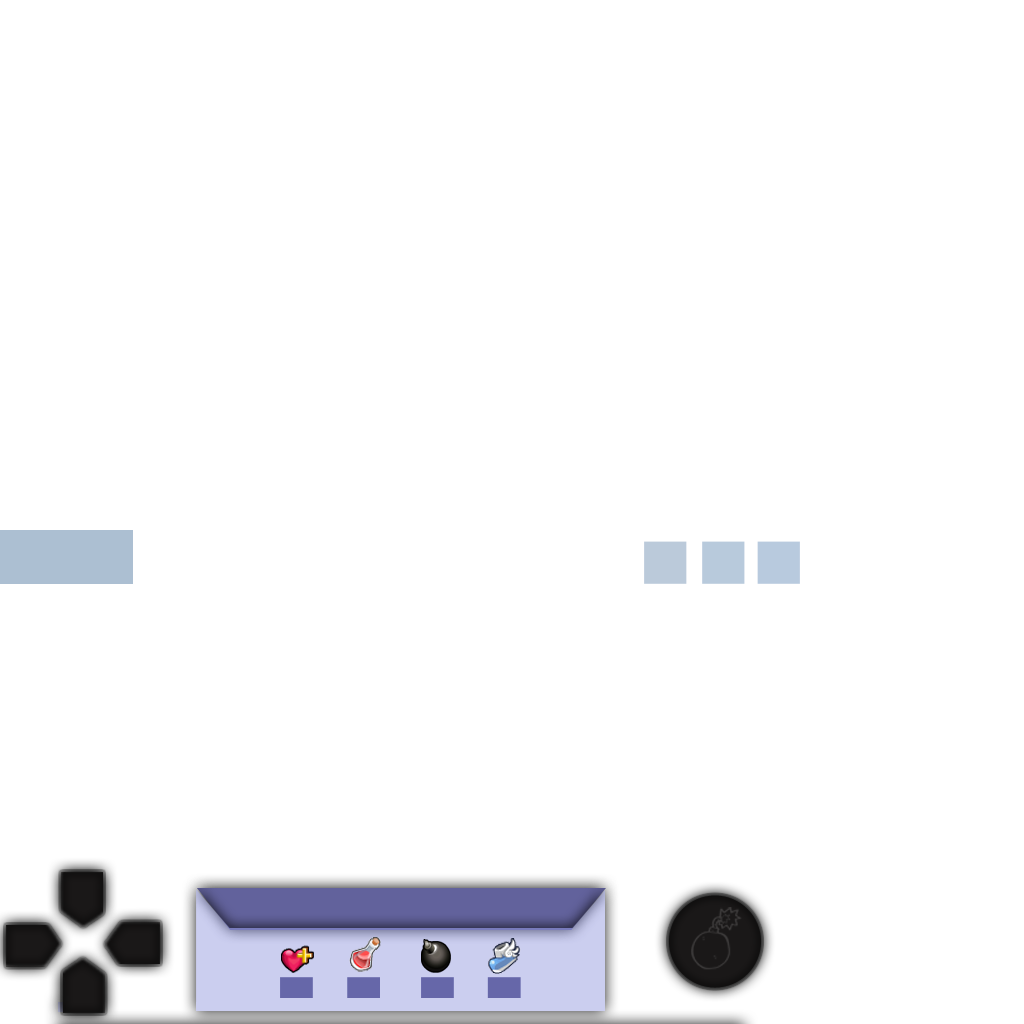
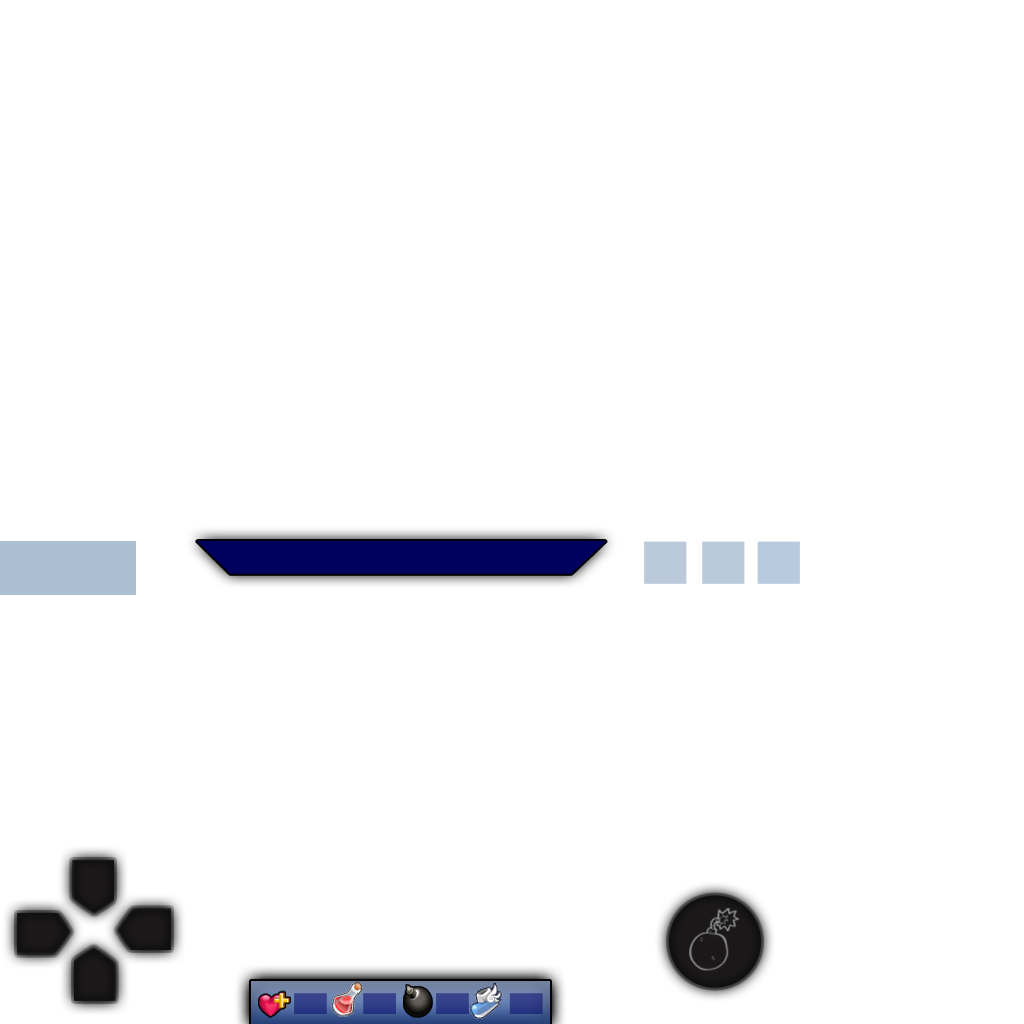
Novo Controller;

diff --git a/bomber-desk/src/com/bomber/common/Assets.java b/bomber-desk/src/com/bomber/common/Assets.java
@@ -40,7 +40,8 @@ public class Assets {
 	public static HashMap<String, MovableObjectAnimation> mMonsters;
 	public static HashMap<String, MovableObjectAnimation> mPlayers;
 	public static HashMap<String, TextureRegion> mPlayersHeads;
-	public static HashMap<String, Animation> mBonus;
+	public static HashMap<String, Animation> mBonusAnimations;
+	public static HashMap<String, TextureRegion> mBonusIcons;
 	public static HashMap<String, Animation> mPlayerEffects;
 	public static HashMap<String, TextureRegion> mNonDestroyableTiles;
 
@@ -69,7 +70,8 @@ public class Assets {
 		mPlayers = new HashMap<String, MovableObjectAnimation>();
 		mPlayerEffects = new HashMap<String, Animation>();
 		mPlayersHeads = new HashMap<String, TextureRegion>();
-		mBonus = new HashMap<String, Animation>();
+		mBonusAnimations = new HashMap<String, Animation>();
+		mBonusIcons = new HashMap<String, TextureRegion>();
 		mExplosions = new HashMap<String, Animation>();
 		mMonsters = new HashMap<String, MovableObjectAnimation>();
 		mNonDestroyableTiles = new HashMap<String, TextureRegion>();
@@ -239,13 +241,20 @@ public class Assets {
 
 	private static void loadBonus()
 	{
-		mBonus.put("bonus_bomb", loadBackloopingAnimation("bonus_bomb_", Bonus.NUMBER_OF_ANIMATION_FRAMES, BONUS_FRAME_DURATION));
-		mBonus.put("bonus_hand", loadBackloopingAnimation("bonus_hand_", Bonus.NUMBER_OF_ANIMATION_FRAMES, BONUS_FRAME_DURATION));
-		mBonus.put("bonus_life", loadBackloopingAnimation("bonus_life_", Bonus.NUMBER_OF_ANIMATION_FRAMES, BONUS_FRAME_DURATION));
-		mBonus.put("bonus_potion", loadBackloopingAnimation("bonus_potion_", Bonus.NUMBER_OF_ANIMATION_FRAMES, BONUS_FRAME_DURATION));
-		mBonus.put("bonus_shield", loadBackloopingAnimation("bonus_shield_", Bonus.NUMBER_OF_ANIMATION_FRAMES, BONUS_FRAME_DURATION));
-		mBonus.put("bonus_speed", loadBackloopingAnimation("bonus_speed_", Bonus.NUMBER_OF_ANIMATION_FRAMES, BONUS_FRAME_DURATION));
-		mBonus.put("bonus_star", loadBackloopingAnimation("bonus_star_", Bonus.NUMBER_OF_ANIMATION_FRAMES, BONUS_FRAME_DURATION));
+		mBonusAnimations.put("bonus_bomb", loadBackloopingAnimation("bonus_bomb_", Bonus.NUMBER_OF_ANIMATION_FRAMES, BONUS_FRAME_DURATION));
+		mBonusAnimations.put("bonus_hand", loadBackloopingAnimation("bonus_hand_", Bonus.NUMBER_OF_ANIMATION_FRAMES, BONUS_FRAME_DURATION));
+		mBonusAnimations.put("bonus_life", loadBackloopingAnimation("bonus_life_", Bonus.NUMBER_OF_ANIMATION_FRAMES, BONUS_FRAME_DURATION));
+		mBonusAnimations.put("bonus_potion", loadBackloopingAnimation("bonus_potion_", Bonus.NUMBER_OF_ANIMATION_FRAMES, BONUS_FRAME_DURATION));
+		mBonusAnimations.put("bonus_shield", loadBackloopingAnimation("bonus_shield_", Bonus.NUMBER_OF_ANIMATION_FRAMES, BONUS_FRAME_DURATION));
+		mBonusAnimations.put("bonus_speed", loadBackloopingAnimation("bonus_speed_", Bonus.NUMBER_OF_ANIMATION_FRAMES, BONUS_FRAME_DURATION));
+		mBonusAnimations.put("bonus_star", loadBackloopingAnimation("bonus_star_", Bonus.NUMBER_OF_ANIMATION_FRAMES, BONUS_FRAME_DURATION));
+
+		
+		mBonusIcons.put("shield", mAtlas.findRegion("bonus_shield"));
+		mBonusIcons.put("hand", mAtlas.findRegion("bonus_throw"));
+		//TODO: ajustar o tamanho 
+		mBonusIcons.put("star", mAtlas.findRegion("bonus_invencibility"));
+		
 	}
 
 	private static Animation loadBackloopingAnimation(String _id, short _howManyFrames, float _frameDuration)

diff --git a/bomber-desk/src/com/bomber/gameobjects/monsters/Monster.java b/bomber-desk/src/com/bomber/gameobjects/monsters/Monster.java
@@ -44,16 +44,6 @@ public class Monster extends KillableObject {
 			if (mLooped)
 			{
 				mWorld.mMonsters.releaseObject(this);
-			
-				//TODO : colocar isto num metodo do GameWorld?
-				OverlayingText t = new OverlayingText();
-				t.mText = new Integer(mInfo.mPointsValue).toString();
-				t.mPosition = mPosition.cpy();
-				t.mPosition.x -= Tile.TILE_SIZE_HALF;
-				t.mPosition.y += Tile.TILE_SIZE_HALF;				
-				mWorld.mPoints.addObject(t);
-				
-				mWorld.getLocalPlayer().mPoints += mInfo.mPointsValue;
 			}
 			return;
 		}
@@ -75,7 +65,15 @@ public class Monster extends KillableObject {
 	protected void onMapCollision(short _collisionType)
 	{
 		short direction = Directions.getAnyOtherDirection(mRandomGenerator, mDirection);
-		changeDirection(direction);
+		
+		Tile tileOnDirection = mWorld.mMap.getTile(mPosition, direction, (short) 1);
+		
+		if(tileOnDirection.mType != Tile.COLLIDABLE && tileOnDirection.mType != Tile.DESTROYABLE)
+		{
+			changeDirection(direction);
+		}
+		
+		
 	}
 
 	private void decideToTurn()
@@ -100,7 +98,14 @@ public class Monster extends KillableObject {
 
 	@Override
 	protected boolean onKill()
-	{
+	{ 
+		
+		//TODO : colocar isto num metodo do GameWorld?
+		String text = new Integer(mInfo.mPointsValue).toString();
+		mWorld.addOverlayingPoints(text, mPosition);
+		
+		mWorld.getLocalPlayer().mPoints += mInfo.mPointsValue;
+		
 		return false;
 	}
 

diff --git a/bomber-desk/src/com/bomber/world/GameMap.java b/bomber-desk/src/com/bomber/world/GameMap.java
@@ -162,8 +162,9 @@ public class GameMap {
 
 		if (_tile.mIsPortal)
 		{
-			spawnPortal(_tile.mPosition.x, _tile.mPosition.y);
+			spawnPortal(_tile);
 			_tile.mIsPortal = false;
+			return; 
 		}
 
 		// O mapa vai apresentar a partir de agora o tile walkable que estava
@@ -725,13 +726,18 @@ public class GameMap {
 		futurePortal.mIsPortal = true;
 	}
 
-	public void spawnPortal(float _x, float _y)
+	public void spawnPortal(Tile _t)
 	{
 		mPortal = mImutableTiles.getFreeObject();
-		mPortal.mPosition.x = _x;
-		mPortal.mPosition.y = _y;
+		mPortal.mPosition.x = _t.mPosition.x;
+		mPortal.mPosition.y = _t.mPosition.y;
+		mPortal.mPositionInArray = _t.mPositionInArray;
+		mTilesMap.set(_t.mPositionInArray, mPortal);
+		
 		// TODO: alterar textura
 		mPortal.mCurrentFrame = Assets.mAtlas.findRegion("tiles_", 123);
+
+
 	}
 
 }

diff --git a/bomber-desk/src/com/bomber/renderers/WorldRenderer.java b/bomber-desk/src/com/bomber/renderers/WorldRenderer.java
@@ -94,11 +94,6 @@ public class WorldRenderer {
 		}
 		
 		
-		Tile mPortal = mWorld.mMap.mPortal;
-		
-		if(mPortal!=null )
-		mBatch.draw(mPortal.mCurrentFrame, mPortal.mPosition.x, mPortal.mPosition.y);
-
 		mBatch.end();
 
 	}
@@ -195,7 +190,7 @@ public class WorldRenderer {
 		//TODO: alterar font
 		BitmapFont font = Assets.mFont;
 		
-		for (OverlayingText t: mWorld.mPoints)
+		for (OverlayingText t: mWorld.mOverlayingPoints)
 		{
 			Vector2 drawingPoint = t.mPosition;		
 			font.draw(mBatch, t.mText, drawingPoint.x, drawingPoint.y);

diff --git a/bomber-desk/src/com/bomber/input/InputPlayingState.java b/bomber-desk/src/com/bomber/input/InputPlayingState.java
@@ -24,10 +24,10 @@ public class InputPlayingState extends Input {
 
 	private short mOriginX = 0;
 	private short mOriginY = 0;
-	final short directionsXWidth = 50;
+	final short directionsXWidth = 65;
 	final short directionsXHeight = 60;
 	final short directionsYWidth = 60;
-	final short directionsYHeight = 50;
+	final short directionsYHeight = 65;
 	final short cornerWidht = directionsXWidth - 2;
 	final short cornerHeight = directionsYHeight - 2;
 

diff --git a/bomber-desk/src/com/bomber/gameobjects/bonus/BonusShield.java b/bomber-desk/src/com/bomber/gameobjects/bonus/BonusShield.java
@@ -9,7 +9,7 @@ public class BonusShield extends TemporaryBonus {
 	public BonusShield() {
 		super(Bonus.SHIELD, 600); // 6secs
 
-		Animation anim = Assets.mBonus.get("bonus_shield");
+		Animation anim = Assets.mBonusAnimations.get("bonus_shield");
 		setCurrentAnimation(anim, (short) NUMBER_OF_ANIMATION_FRAMES, true, true);
 	}
 

diff --git a/bomber-desk/src/com/bomber/DebugSettings.java b/bomber-desk/src/com/bomber/DebugSettings.java
@@ -6,7 +6,7 @@ public class DebugSettings {
 	public static final boolean PLAYER_DIE_WITH_EXPLOSIONS = false;
 	
 	// Monstros
-	public static final boolean MONSTERS_KILL_PLAYERS = true;
+	public static final boolean MONSTERS_KILL_PLAYERS = false;
 	
 	// Mapa
 	public static final boolean MAP_LOAD_DESTROYABLE_TILES = true;

diff --git a/bomber-desk/src/com/bomber/gameobjects/bonus/BonusDoublePoints.java b/bomber-desk/src/com/bomber/gameobjects/bonus/BonusDoublePoints.java
@@ -9,7 +9,7 @@ public class BonusDoublePoints extends TemporaryBonus {
 	{
 		super(Bonus.DOUBLE_POINTS, 600);
 		
-		Animation anim = Assets.mBonus.get("bonus_star");
+		Animation anim = Assets.mBonusAnimations.get("bonus_star");
 		setCurrentAnimation(anim,(short) NUMBER_OF_ANIMATION_FRAMES, true,true);
 	}
 

diff --git a/bomber-desk/src/com/bomber/gameobjects/bonus/BonusExplosionSize.java b/bomber-desk/src/com/bomber/gameobjects/bonus/BonusExplosionSize.java
@@ -9,7 +9,7 @@ public class BonusExplosionSize extends Bonus {
 	
 	public BonusExplosionSize()
 	{
-		Animation anim = Assets.mBonus.get("bonus_potion");
+		Animation anim = Assets.mBonusAnimations.get("bonus_potion");
 		setCurrentAnimation(anim,(short) NUMBER_OF_ANIMATION_FRAMES, true, true);
 	}
     

diff --git a/bomber-desk/src/com/bomber/gameobjects/bonus/BonusPush.java b/bomber-desk/src/com/bomber/gameobjects/bonus/BonusPush.java
@@ -9,7 +9,7 @@ public class BonusPush extends TemporaryBonus {
 	{
 		super(Bonus.PUSH, 600);
 		
-		Animation anim = Assets.mBonus.get("bonus_hand");
+		Animation anim = Assets.mBonusAnimations.get("bonus_hand");
 		setCurrentAnimation(anim,(short) NUMBER_OF_ANIMATION_FRAMES, true, true);
 	}
     
